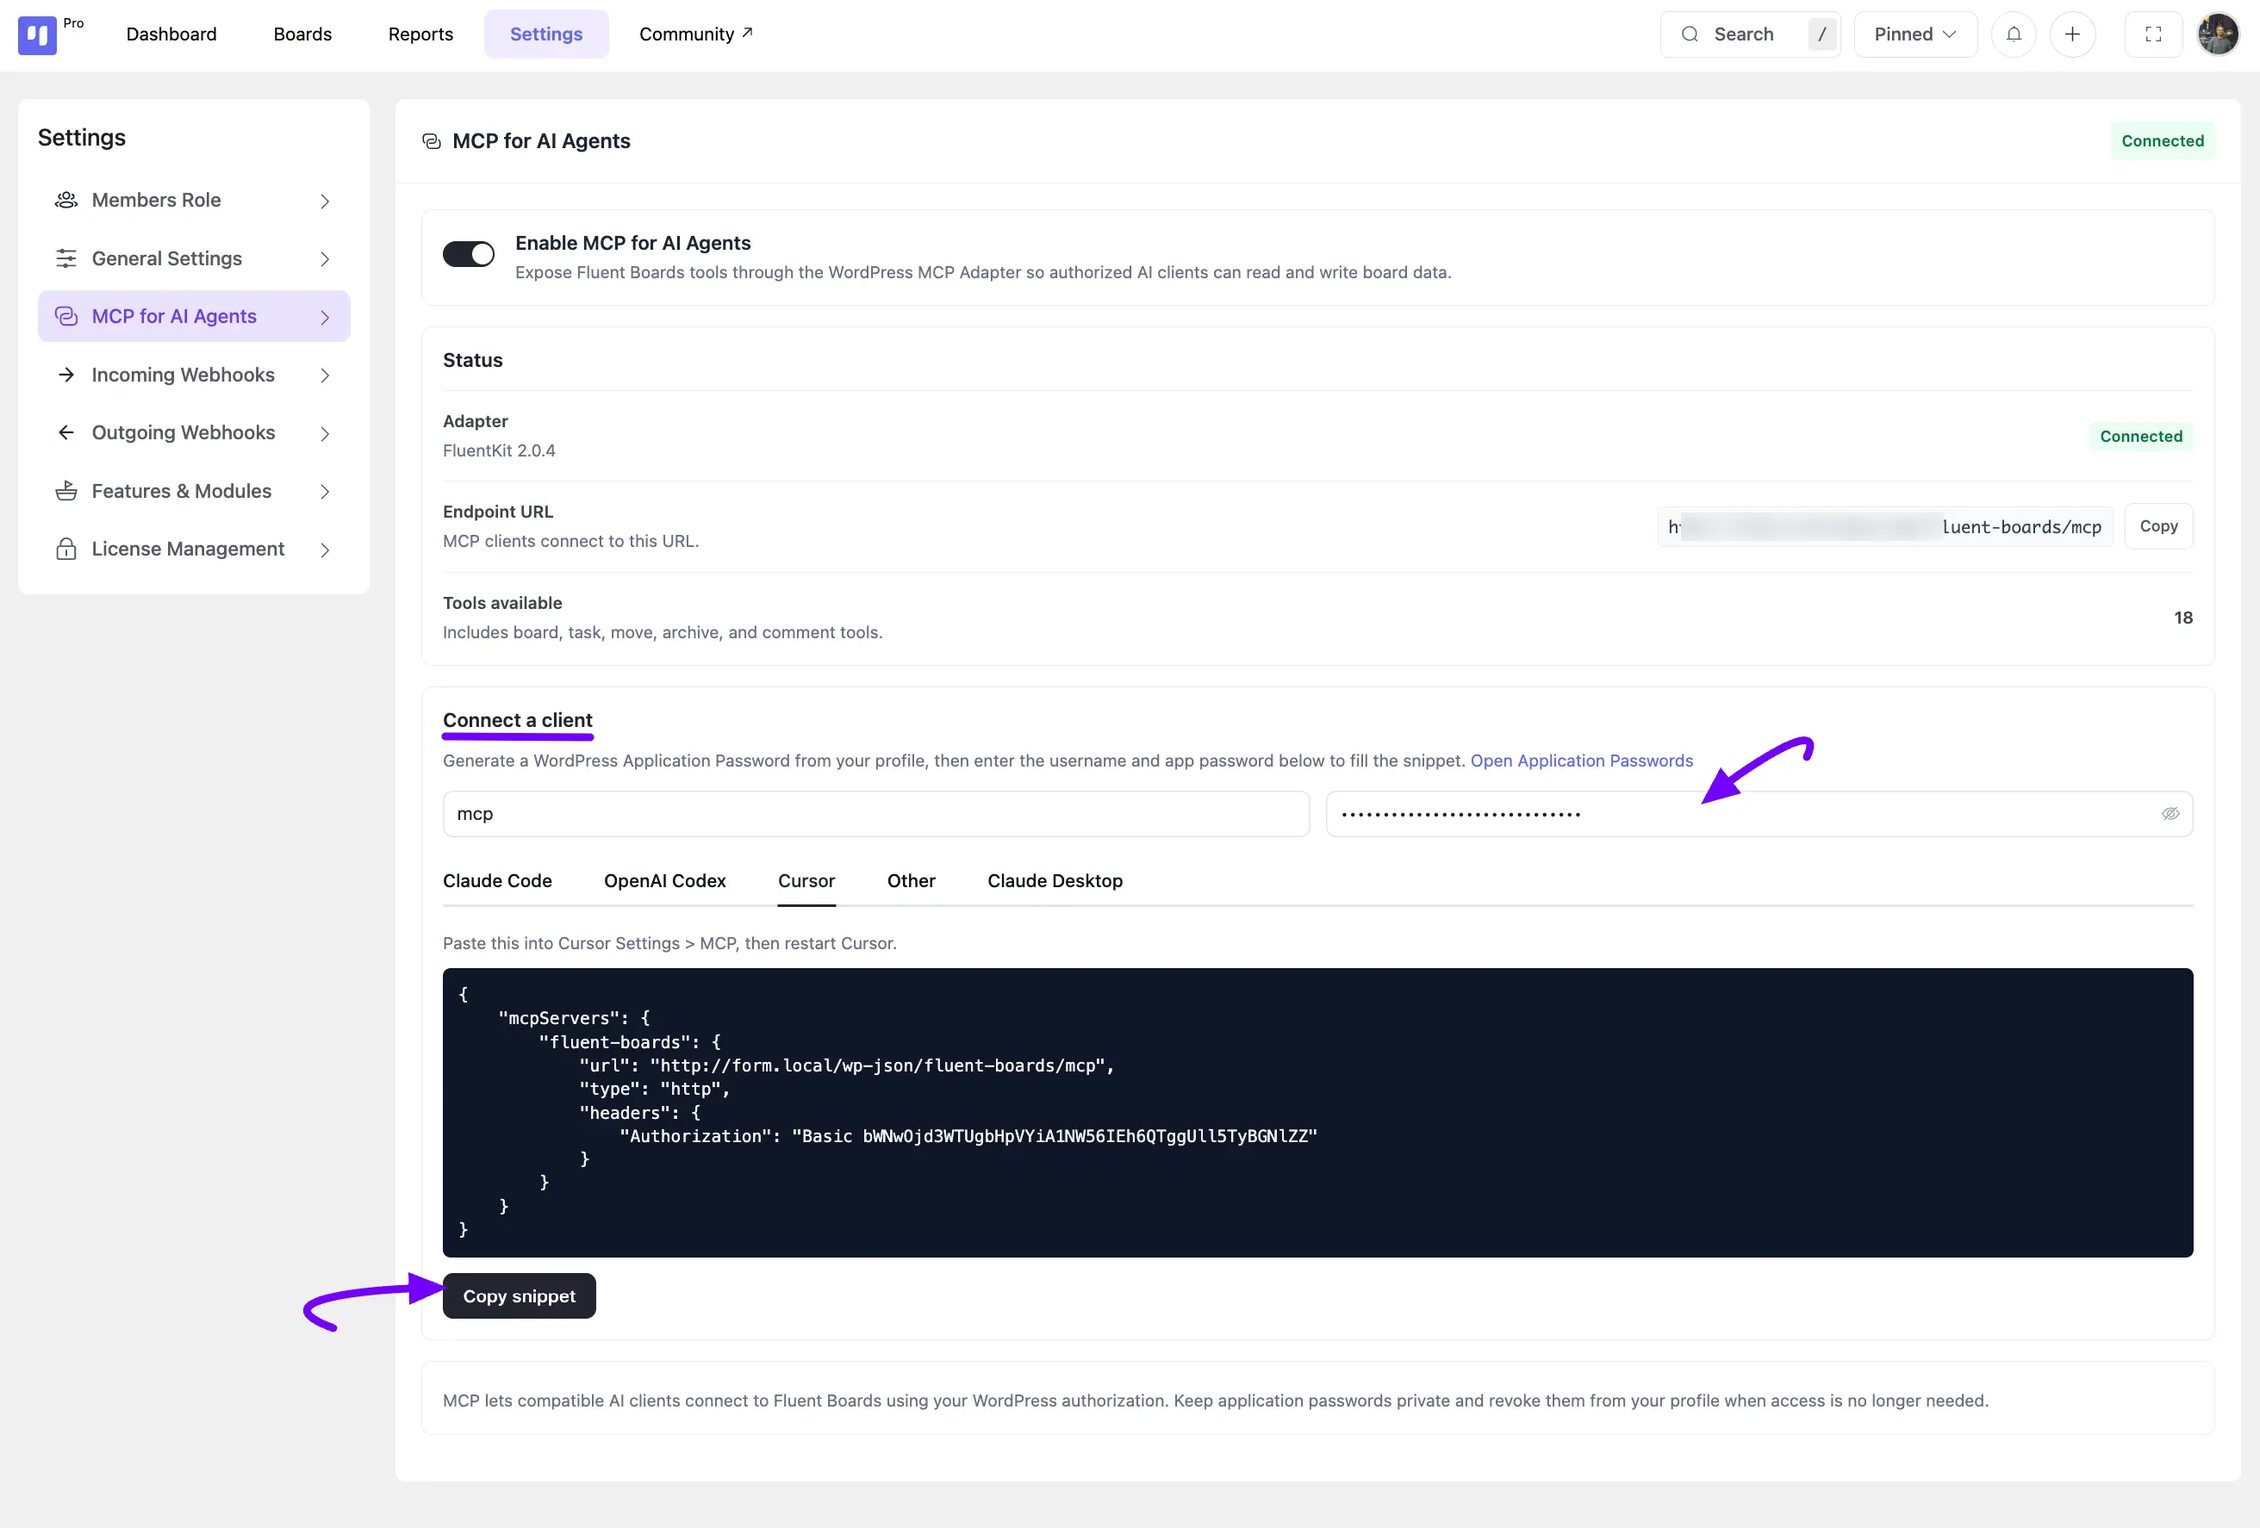
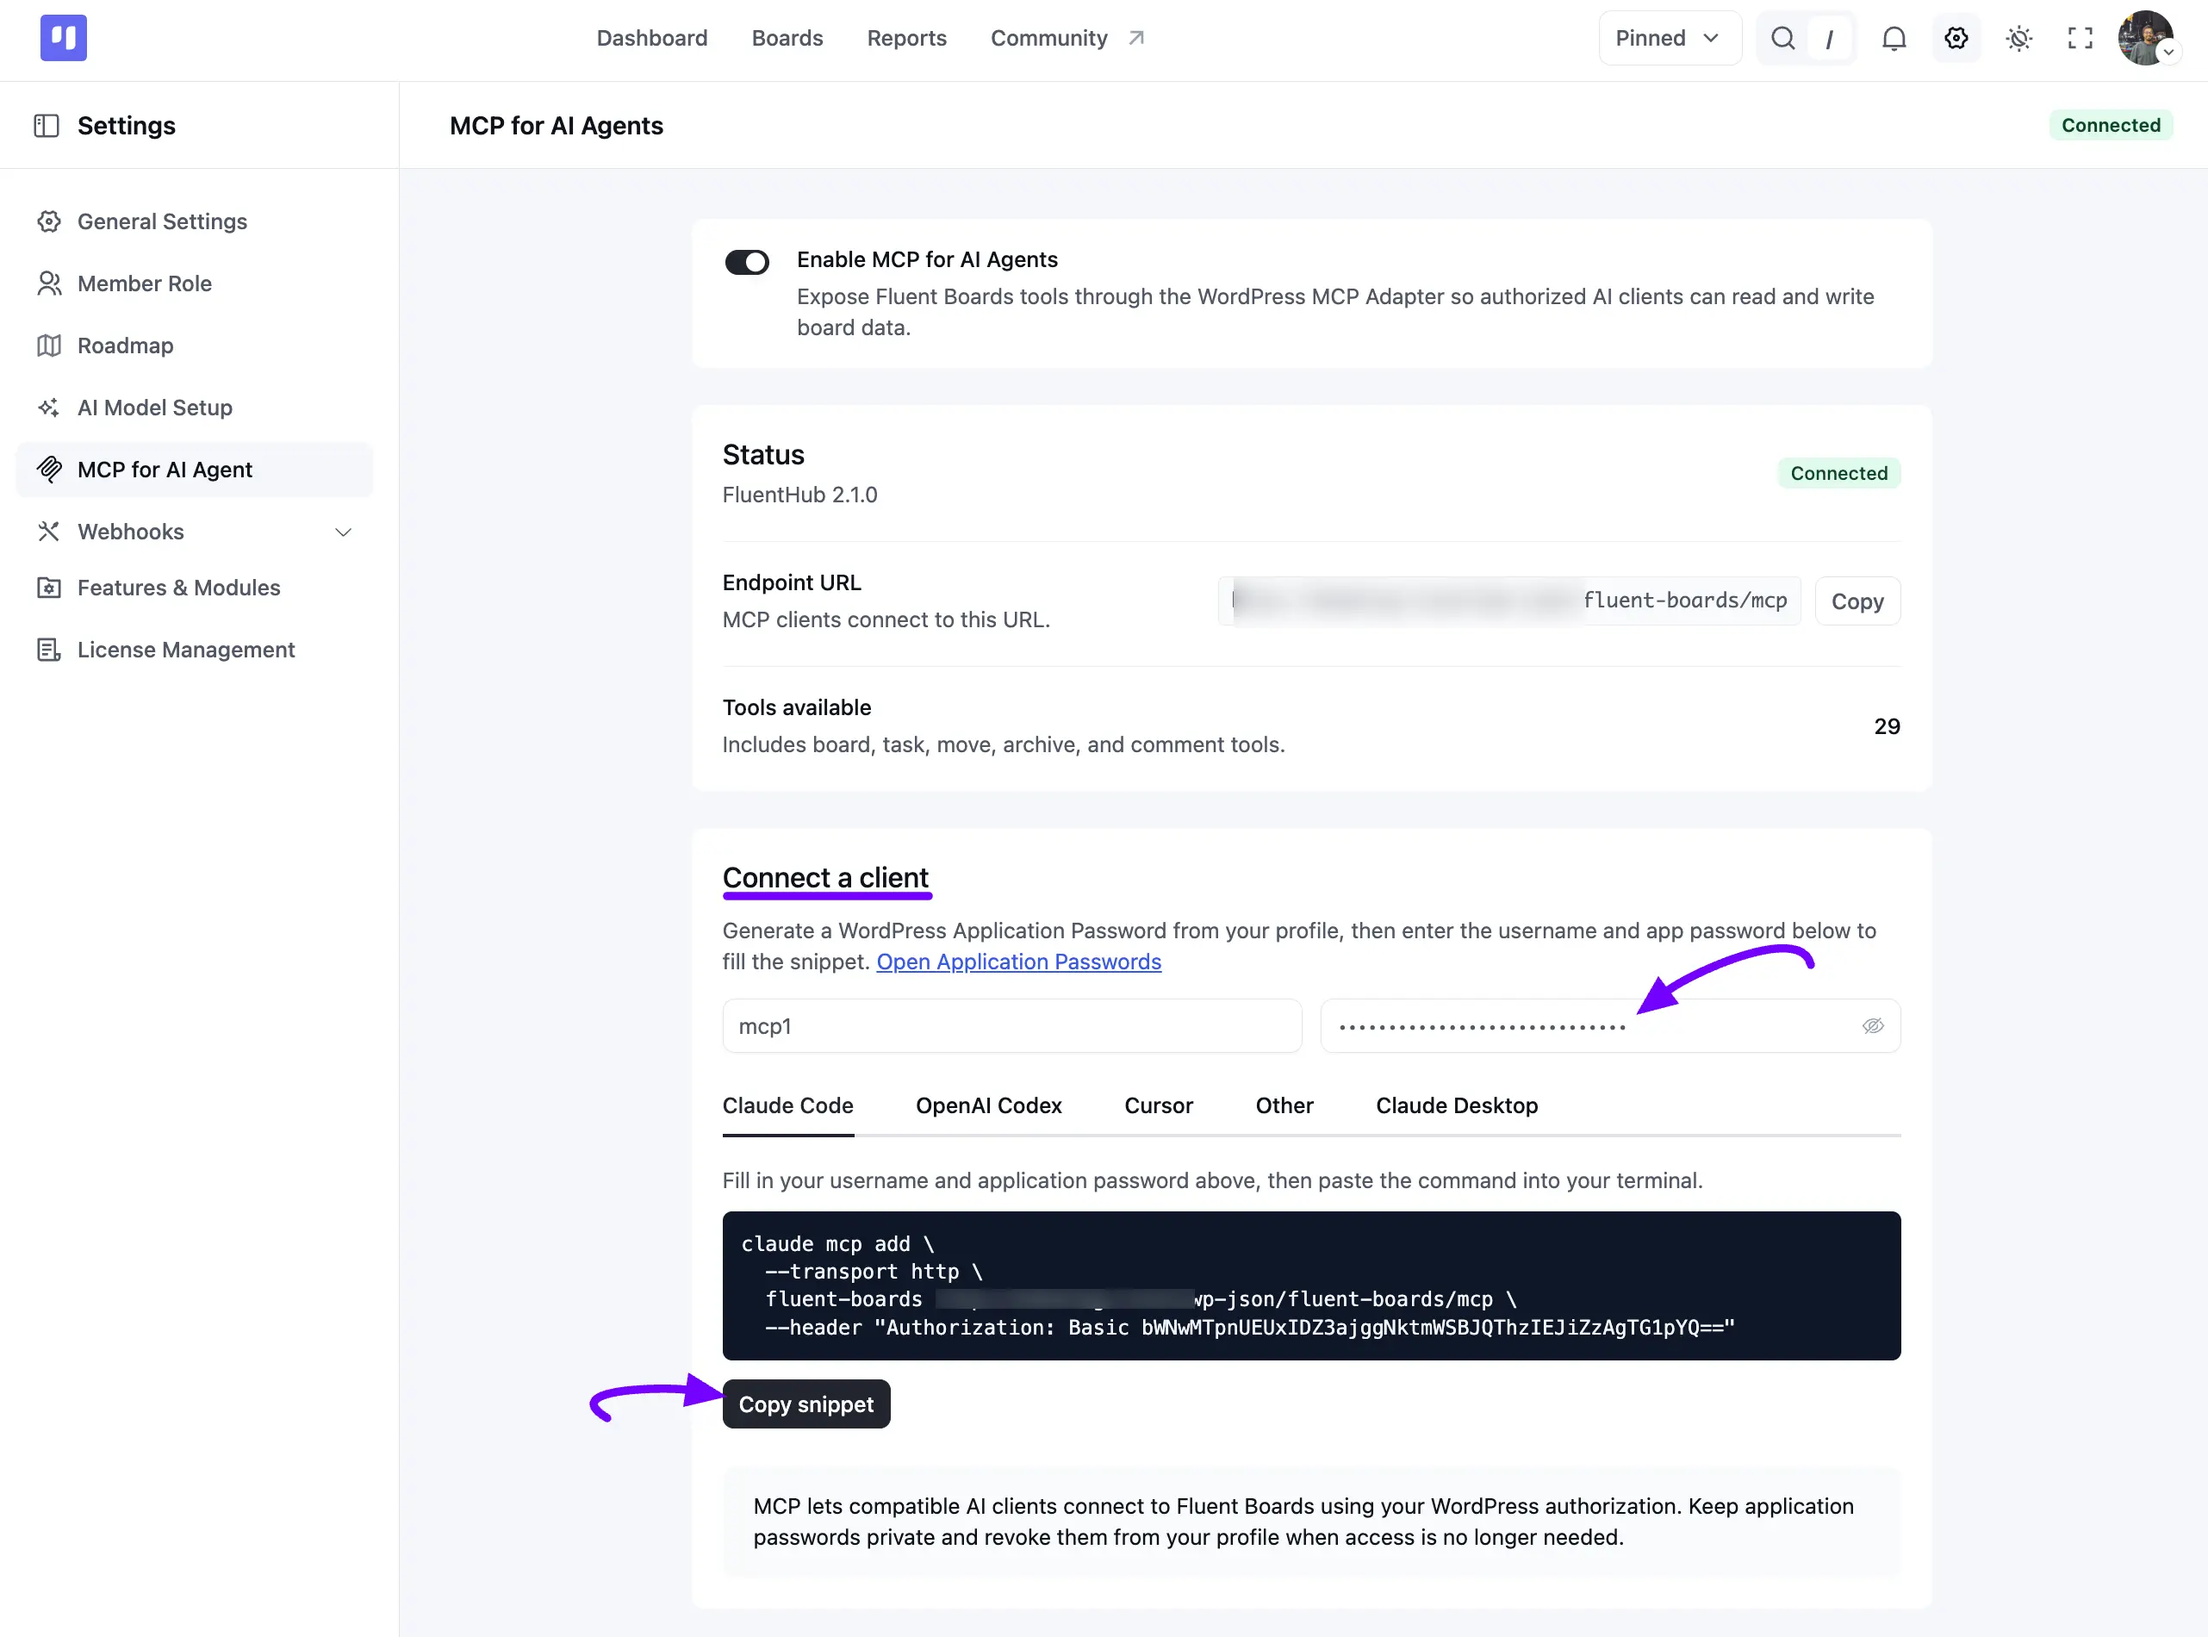
update MCP for AI Agents doc

diff --git a/docs/settings/mcp-for-ai-agents.md b/docs/settings/mcp-for-ai-agents.md
@@ -7,23 +7,24 @@ This integration works through a secure connection using a WordPress Application
 
 ### Open the MCP Settings
 
-To access the configuration panel, log in to your WordPress dashboard. From the left sidebar, navigate to **FluentBoards** → **Settings**, and select the **MCP for AI** tab from the settings menu. Everything you need to initialize, authenticate, and configure your connections lives on this single screen.
+To access the configuration panel, log in to your WordPress dashboard. From the left sidebar, navigate to **FluentBoards** → **Settings**, and select the **MCP for AI Agent** tab from the settings menu. Everything you need to initialize, authenticate, and configure your connections lives on this single screen.
 
 
 ## Step 1: Enable MCP for AI Agents
 
 To allow external AI assistants to discover your FluentBoards environment, toggle the **Enable MCP for AI Agents** switch located at the top of the configuration page. When turned on, FluentBoards dynamically exposes its underlying capabilities to authorized MCP clients.
 
+> [!Note]
 > If you need to instantly pause access for all connected AI tools simultaneously, simply flip this toggle off. The endpoint immediately stops responding to incoming MCP requests without altering your saved configurations.
 
 ![Enabling MCP Toggle Switch](../public/images/settings/mcp-for-ai-agents/enable-mcp-for-ai-agents-1.webp)
 
-## Step 2: Install Fluent Toolkit
+## Step 2: Install and Activate FluentHub
 
-FluentBoards utilizes a lightweight companion plugin called **Fluent Toolkit** to manage and expose its specific tool schema. If this toolkit is missing or inactive, an **Adapter Required** warning will appear in your status panel.
+FluentBoards utilizes a lightweight companion plugin called **FluentHub** to manage and expose its specific tool schema. If this plugin is missing or inactive, an **Adapter Required** warning will appear in your status panel.
 
-* **One-Click Installation:** Click the **Install Fluent Toolkit** button on the settings page. WordPress will automatically download, install, and activate the extension in the background.
-* **Manual Installation:** If utilizing a manual deployment, download the companion plugin archive directly from the official repository. Upload it via **Plugins → Add New → Upload Plugin**, click activate, and return to the **MCP for AI** configuration screen.
+* **One-Click Installation:** Click the **Install FluentHub** button on the settings page. WordPress will automatically download, install, and activate the extension in the background.
+* **Manual Installation:** If utilizing a manual deployment, download the **FluentHub** plugin archive directly from the official repository. Upload it via **Plugins → Add New → Upload Plugin**, click activate, and return to the **MCP for AI Agent** configuration screen.
 
 ## Step 3: Verify the Connection Status
 
@@ -31,9 +32,9 @@ Once both the toggle is enabled and the toolkit is active, review the **Status**
 
 | Field | Description |
 | --- | --- |
-| **Adapter** | Displays the active version of your Fluent Toolkit along with a green **Connected** badge. |
-| **Endpoint URL** | The direct REST API address your AI client requires to target this server (e.g., `https://your-site.com/wp-json/fluent-boards/mcp`). |
-| **Tools Available** | Total number of MCP tools exposed (typically 18, including 7 FluentBoard Pro tools when Pro is active). |
+| **Adapter** | Displays the active version of your FluentHub plugin (e.g., FluentHub 2.1.0) along with a green **Connected** badge. |
+| **Endpoint URL** | The direct REST API address your AI client requires to target this server (e.g., `https://your-site.com/wp-json/fluent-boards/mcp`). A **Copy** button sits right next to it. |
+| **Tools Available** | Total number of MCP tools exposed, covering board, task, move, archive, and comment actions (29 in this example). |
 
 > If your **Tools Available** counter displays 0, double-check that the main **Enable MCP for AI Agents** toggle from Step 1 is thoroughly switched on.
 
@@ -59,9 +60,9 @@ External AI applications sign in to your WordPress installation via an isolated 
 
 Return to the **MCP for AI** panel inside FluentBoards and look for the **Connect a client** section. By providing your profile parameters here, the plugin automatically structures a personalized connection block for your target app.
 
-1. Input your active WordPress account login name into the **Username** text field.
-2. Paste the un-spaced or spaced **Application Password** generated during Step 4 into the password field.
-3. Choose the tab corresponding to your AI workspace provider (**Cursor**, **Claude Desktop**, **Claude Code**, or **Other**).
+1. Input your active WordPress account login name into the **Username** text field. A handy **Open Application Passwords** link sits right above this field if you still need to generate one.
+2. Paste the un-spaced or spaced **Application Password** generated during Step 4 into the password field. Click the eye icon to reveal it and double-check for typos.
+3. Choose the tab corresponding to your AI workspace provider (**Claude Code**, **OpenAI Codex**, **Cursor**, **Other**, or **Claude Desktop**).
 4. Click **Copy snippet** to send the configured instructions to your clipboard.
 
 ![Copy Appllication password](../public/images/settings/mcp-for-ai-agents/copy-snippet-5.webp)
@@ -149,6 +150,6 @@ Now, if you want to view it on the front end of your site, go to your website’
 
 ### Troubleshooting Common Issues
 
-* **The "Adapter Required" Shield Remains Up:** Give your web browser a hard refresh (`Ctrl + F5` or `Cmd + Shift + R`). If the badge remains, navigate to your core **Plugins** dashboard to double-check that **Fluent Toolkit** is explicitly flagged as **Active**.
+* **The "Adapter Required" Shield Remains Up:** Give your web browser a hard refresh (`Ctrl + F5` or `Cmd + Shift + R`). If the badge remains, navigate to your core **Plugins** dashboard to double-check that **FluentHub** is explicitly flagged as **Active**.
 * **The AI Client Reports an "Unauthorized" Exception:** Your username spelling or the 24-character application security password contains a typo. Regenerate a clean password from your user profile and reconstruct the snippet block.
 * **Commands Complete Successfully but Do Not Reflect Production Realities:** Verify that your site's local **Endpoint URL** exactly matches the domain structure and protocol (HTTP vs HTTPS) configured inside your external AI workspace. WordPress application authentication strictly relies on a functioning, publicly clear REST API route.

diff --git a/docs/tasks/how-to-create-a-new-task.md b/docs/tasks/how-to-create-a-new-task.md
@@ -70,7 +70,7 @@ Once you select or highlight your text, a formatting toolbar appears with **Bold
 
 Simply click on the **AI** icon in the description toolbar to open the **AI Writing Assistant**. From here, you can ask it to write, improve, shorten, expand, format, or fix the grammar of your description, or give it a custom instruction of your own.
 
-> Your site admin needs to connect an AI provider (OpenAI, Claude, Gemini, or the WordPress AI client) before the **AI Writing Assistant** appears.
+> Your need to connect an AI provider (OpenAI, Claude, Gemini, or the WordPress AI client) before the **AI Writing Assistant** appears.
 
 ### AI Task Assistant
 
@@ -81,6 +81,8 @@ FluentBoards can use AI to help you manage a task's content. Click on the **AI A
 - **Suggest Labels & Priority:** Let AI recommend Labels and a **Priority** level for the task, based on its content.
 
 Review the suggestions in the preview, then click the **Apply** button to add the suggested Subtasks, Labels, or Priority to your task.
+
+![Ai Task Assistant](../public/images/task-management/how-to-create-a-new-task/ai-assistant-9.webp)
 
 ### Attachments
 
